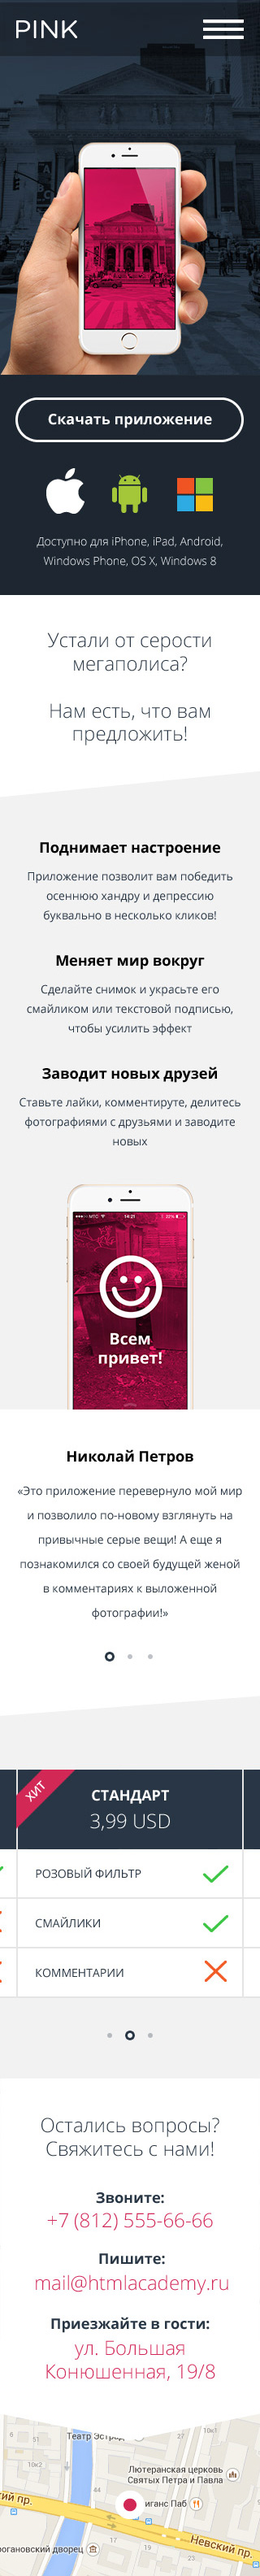
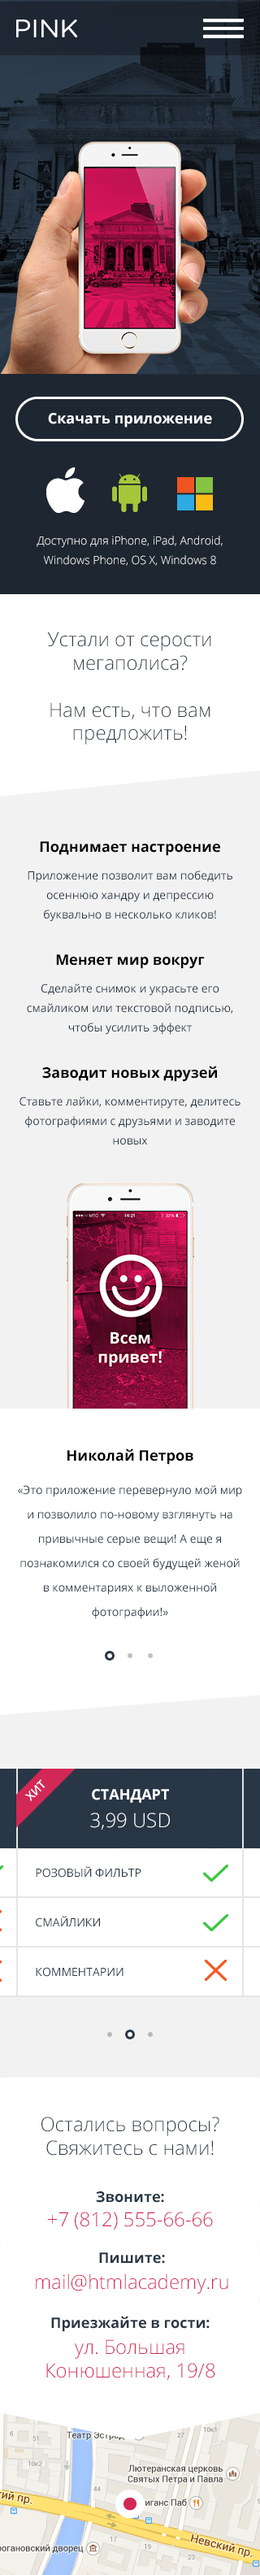
index - отзывы2

diff --git a/index.html b/index.html
@@ -6,7 +6,7 @@
     <link rel="stylesheet" href="css/style.css">
     <link href='https://fonts.googleapis.com/css?family=Open+Sans:400,300,700,800,400italic,300italic' rel='stylesheet' type='text/css'>
   </head>
-  <body>
+  <body class="nojs">
     <header class="page-header">
       <input type="checkbox" id="nav-cbx" class="page-header__checkbox hidden">
       <div class="page-header__top-line">
@@ -71,11 +71,11 @@
         <h2 class="main-review__title hidden">Отзывы</h2>
         <div class="main-review__indicators">
           <input type="radio" class="hidden" id="review-1" name="review">
-          <label for="review-1" class="slider__indicator"></label>
+          <label for="review-1" class="main-review__indicator  main-review__indicator--1"></label>
           <input type="radio" class="hidden" id="review-2" name="review">
-          <label for="review-2" class="slider__indicator"></label>
+          <label for="review-2" class="main-review__indicator  main-review__indicator--2"></label>
           <input type="radio" class="hidden" id="review-3" name="review">
-          <label for="review-3" class="slider__indicator"></label>
+          <label for="review-3" class="main-review__indicator  main-review__indicator--3"></label>
         </div>
         <div class="main-review__slider">
           <div class="main-review__card main-review__card--1">
@@ -83,7 +83,7 @@
               <b class="main-review__autor">Николай Петров</b>
               <span  class="main-review__autor-desc">25 лет, водитель трамвая</span>
             </div>
-            <div class="main-review__text">"Это приложение перевернуло мой мир и позволило по-новому взглянуть на привычные серые вещи! А еще я познакомился со своей будущей женой в комментариях к выложенной фотографии!"</div>
+            <div class="main-review__text">&laquo;Это приложение перевернуло мой мир и позволило по-новому взглянуть на привычные серые вещи! А еще я познакомился со своей будущей женой в комментариях к выложенной фотографии!&raquo;</div>
           </div>
         </div>
       </section>

diff --git a/sass/blocks/main-review.scss b/sass/blocks/main-review.scss
@@ -1,19 +1,40 @@
 
 .main-review {
   position: relative;
-  min-height: 350px;
+  min-height: 200px;
   position: relative;
   padding:  20px;
-  padding-top: 45px;
+  padding-top: 50px;
+  padding-bottom: 90px;
   text-align: center;
 }
 
 .main-review * {
   outline: 1px solid red;
-
 }
 
-.main-review__indicators {}
+.main-review__indicators {
+  min-width: 50px;
+  margin: 0 auto;
+  outline: 1px solid red;
+  position: absolute;
+  bottom: 48px;
+  left: 0;
+  right: 0;
+  font-size: 0;
+}
+
+.main-review__indicator {
+  display: inline-block;
+  vertical-align: top;
+  width: 5px;
+  height: 5px;
+  background-color: #bec2c7;
+  // border: 2px solid #000;
+  border-radius: 50%;
+  margin-left: 10px;
+  margin-right: 10px;
+}
 
 .main-review__slider {}
 
@@ -29,4 +50,8 @@
   display: none;
 }
 
-.main-review__text {}
+.main-review__text {
+  font-size: 14px;
+  line-height: 30px;
+  margin-top: 18px;
+}

diff --git a/sass/mixins.scss b/sass/mixins.scss
@@ -12,6 +12,6 @@
 
 @mixin mobile-title {
   font-size: 18px;
-  line-height: 10px;
+  line-height: 16px;
   font-weight: bold;
 }

diff --git a/sass/blocks/advantage.scss b/sass/blocks/advantage.scss
@@ -37,7 +37,6 @@
 }
 
 .advantage__title {
-  display: block;
   @include mobile-title
 }
 
